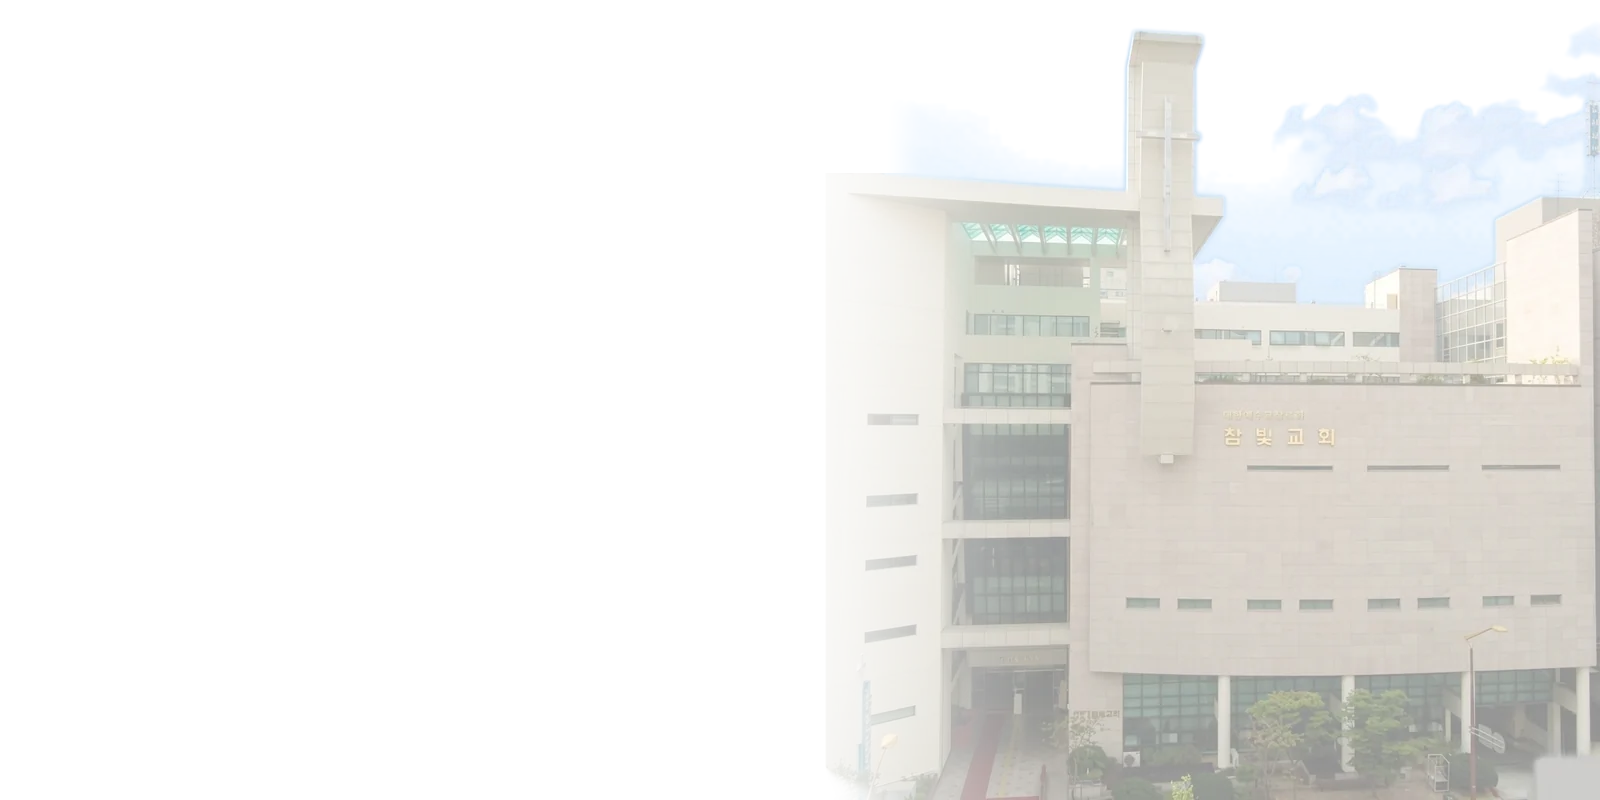
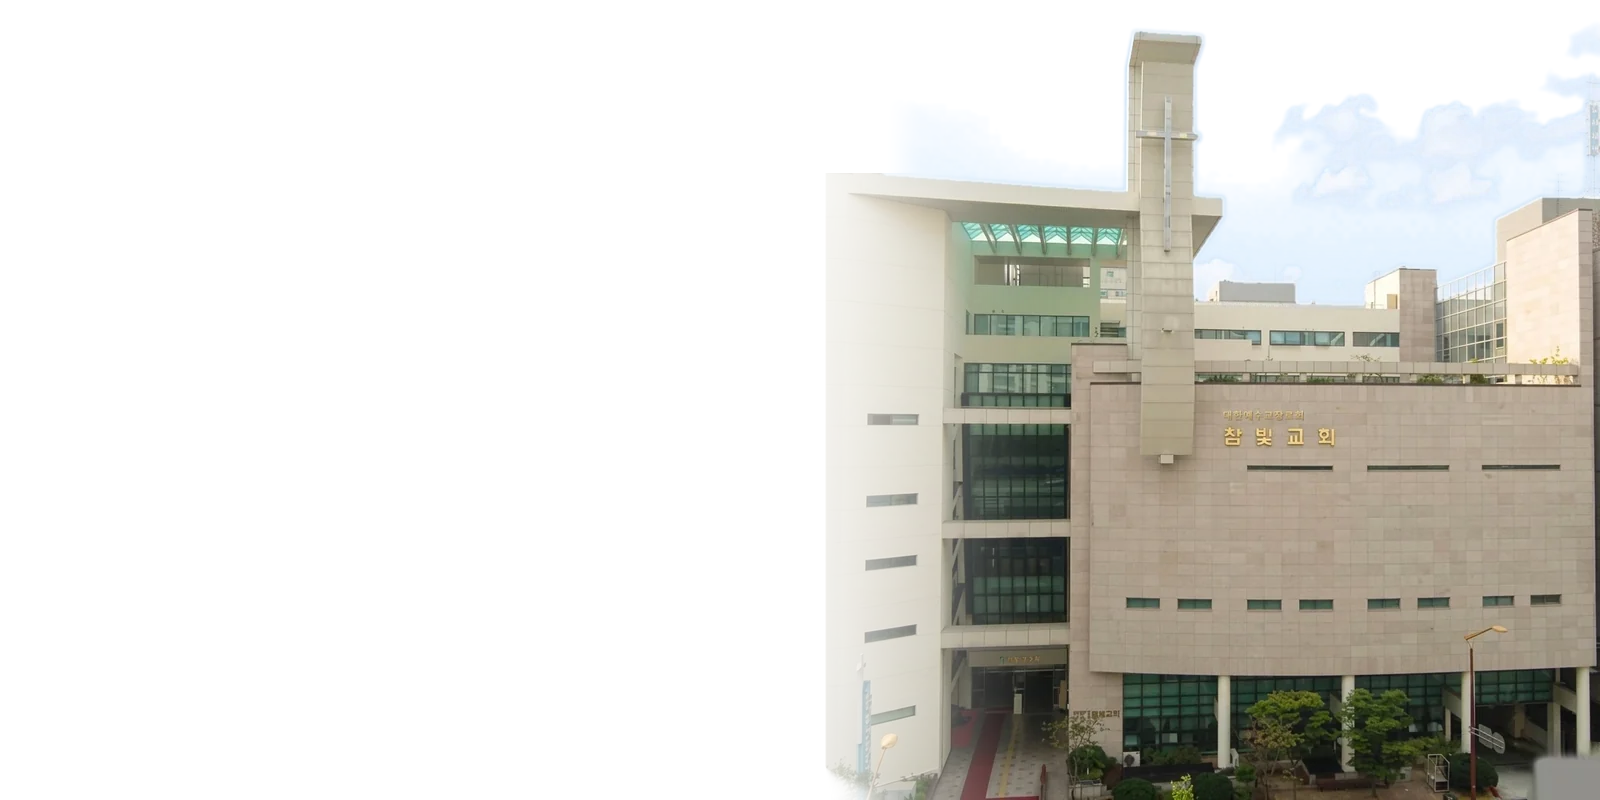
건물라이트테마 개선

diff --git a/frontend/scripts/build_visit_hero.py b/frontend/scripts/build_visit_hero.py
@@ -277,7 +277,8 @@ for key, path in SRC.items():
         # 맑은 하늘 b-r ≈ 100~130, 구름 심지 ≈ 0~25. 100 부터 서서히 — 옅은 뭉게 가장자리까지 살린다
         d = ch[..., 2] - ch[..., 0]
         cloud = np.clip((112 - d) / 80, 0, 1) ** 0.85
-        cloud = cloud * smoothstep(yy / 60)
+        # 반드시 하늘 픽셀에만 — 크림색 벽면도 b-r 이 작아 '구름'으로 잡히고, 아래 흰색 섞기가 건물을 뿌옇게 만든다(2026-09-03 버그)
+        cloud = cloud * sky * smoothstep(yy / 60)
         # 구름은 흰색 쪽으로 살짝 밝힌다 — 반투명으로 얹히면 원색 그대로는 회청색으로 죽어 '구름 느낌이 없다'(2026-09-03)
         wcl = np.clip(cloud[..., None] * 0.55, 0, 1)
         ch = ch * (1 - wcl) + 255 * wcl
